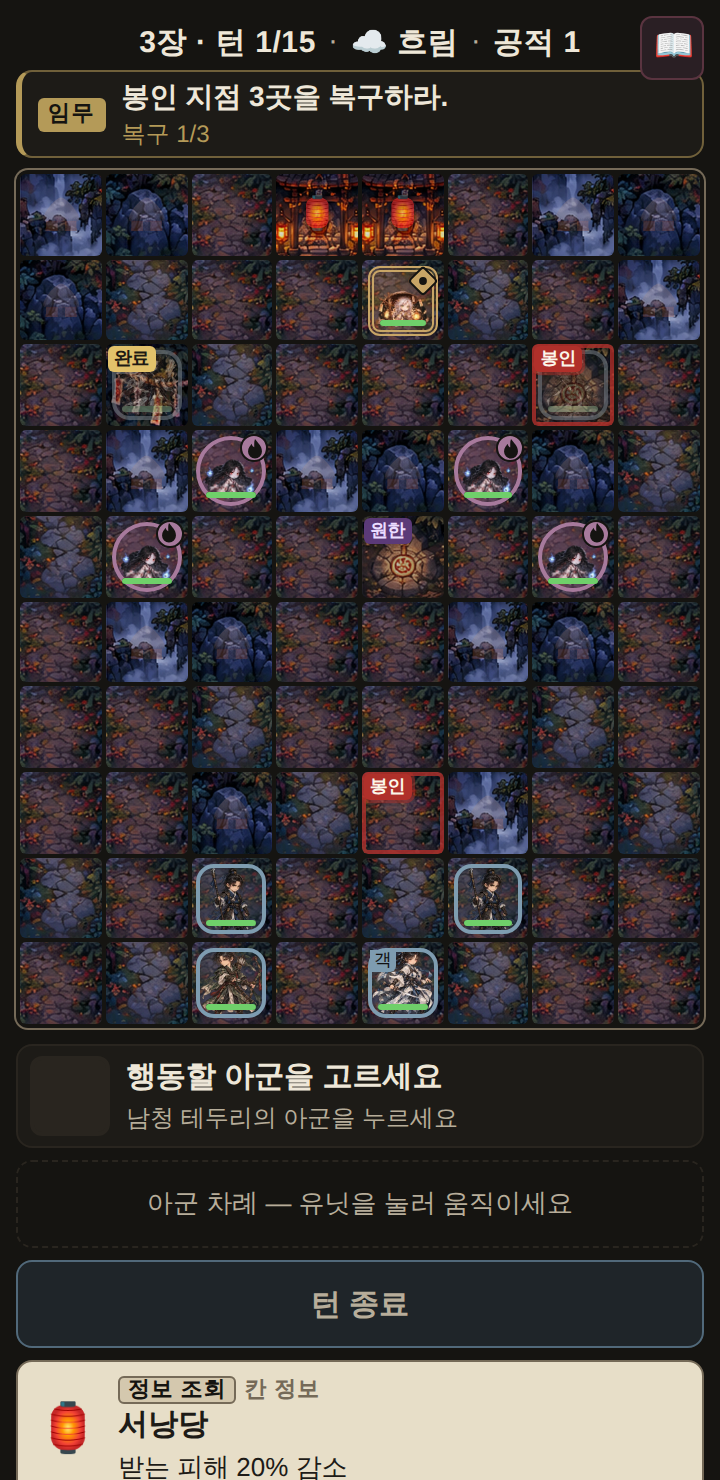
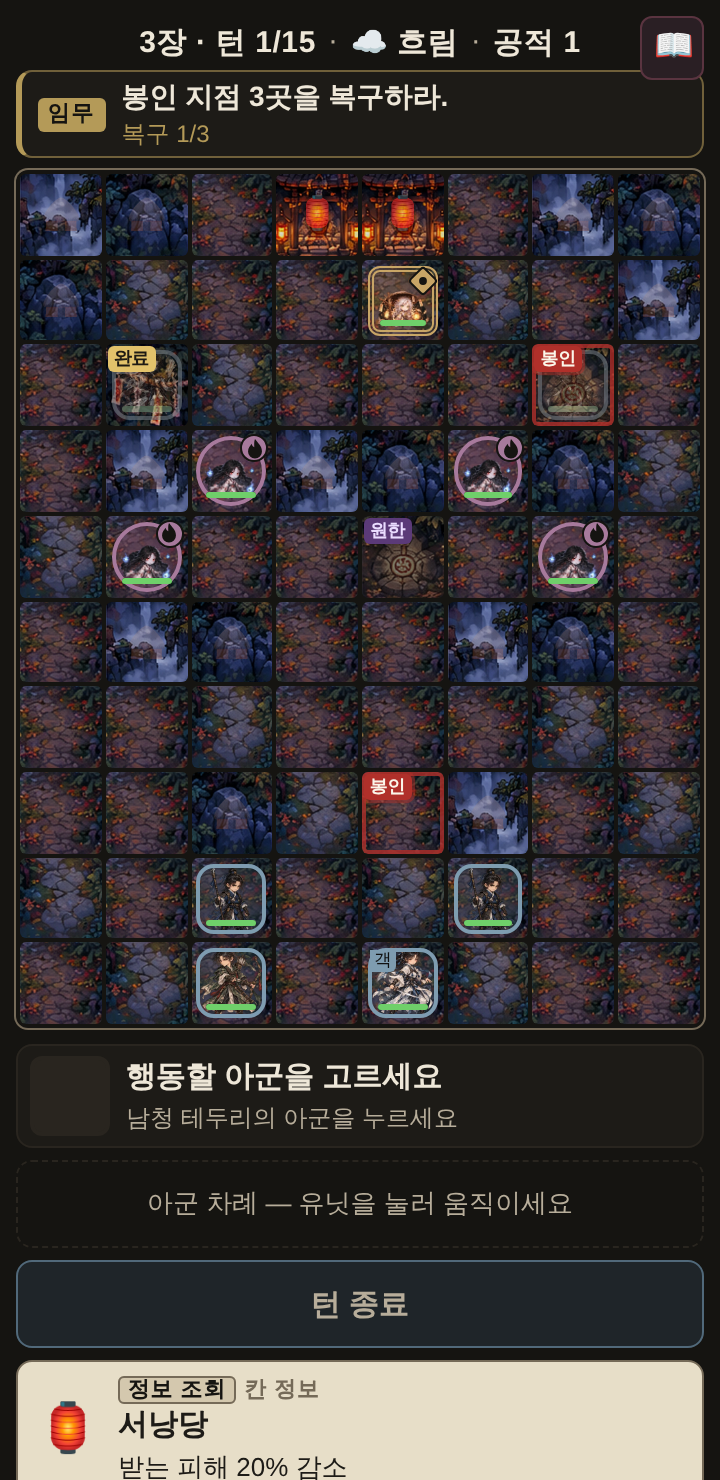
fix: [ENV-PHASE-C] 돌무덤 가운데 빛 누름 - 돌무덤 칸만 가운데 주황 문양·빛을 약 28% 어둡게·30% 채도 낮춤(env-trace-dim, 칸 한정 CSS 층), 그림 파일·돌탑·금줄·서낭당·다른 칸 변경 없음, 돋보기 표식 유지, 캡처 갱신 (규칙 변경 없음)
Claude-Session: https://claude.ai/code/session_01EmF9GJCvFbzTipZNHHLaCs

diff --git a/joseon-exorcist/index.html b/joseon-exorcist/index.html
@@ -96,6 +96,11 @@
   .cell.env-ch1.t-shrine .mark,
   .cell.env-ch1.t-spring .mark,
   .cell.env-ch3.t-shrine .mark { opacity: .72; text-shadow: 0 1px 2px rgba(0, 0, 0, .9), 0 0 3px rgba(0, 0, 0, .65); }
+  /* ENV-PHASE-C 검수: 3장 돌무덤 칸만 가운데 주황 문양이 "이미 켜진 제단"처럼 보여 빛을 누른다.
+     그림 파일은 돌탑과 같이 쓰므로 파일은 그대로 두고, 이 칸 배경 가운데만 어둡게·채도 낮게 (표식·유닛·강조는 그 위) */
+  .cell.env-trace-dim::before { content: ''; position: absolute; inset: 0; border-radius: inherit; pointer-events: none; z-index: 0;
+    -webkit-backdrop-filter: brightness(.7) saturate(.6); backdrop-filter: brightness(.7) saturate(.6);
+    -webkit-mask: radial-gradient(circle at 50% 55%, #000 0 40%, transparent 64%); mask: radial-gradient(circle at 50% 55%, #000 0 40%, transparent 64%); }
   .t-escape { background: var(--escape); box-shadow: inset 0 0 0 1px #3f6b48; } /* 2장 탈출로(숲길): 예전 그대로 */
   /* 5장 성문: 등장 전에는 조용한 먹색 + 표찰, 운반자가 향하는 성문만 주홍 테두리 */
   .t-escape.gate { background: var(--gate); box-shadow: inset 0 0 0 1px rgba(117, 106, 88, .75); }
@@ -4207,9 +4212,12 @@ var Core = (function () {
 
   // ENV-PHASE-C: 3장 조사 지점 칸만 배경을 흔적 그림으로 바꾼다 (지점 데이터·표식은 그대로, 그림만).
   // 서낭목은 봉인 단계에서야 뜻이 드러나므로 일반 고갯길 그대로 둔다 (화면이 이야기보다 먼저 말하지 않게)
-  function ch3PointEnv(r, c) {
+  function ch3PointAt(r, c) {
     if (chapterId !== 'ch3' || !state.points) return null;
-    var p = state.points.filter(function (pt) { return pt.r === r && pt.c === c; })[0];
+    return state.points.filter(function (pt) { return pt.r === r && pt.c === c; })[0] || null;
+  }
+  function ch3PointEnv(r, c) {
+    var p = ch3PointAt(r, c);
     if (!p) return null;
     if (p.id === 'geumjul') return 'assets/environment/ch3/env_point_geumjul.webp';
     if (p.id === 'doltap' || p.id === 'dolmudeom') return 'assets/environment/ch3/env_point_stone.webp';
@@ -4231,6 +4239,7 @@ var Core = (function () {
         var cell = el('div', 'cell ' + TERRAIN_CLASS[t]);
         var env = withEnv && envArtForCell(chapterId, t, r, c);
         if (env) env = ch3PointEnv(r, c) || env;
+        if (env && (ch3PointAt(r, c) || {}).id === 'dolmudeom') cell.className += ' env-trace-dim'; // 돌무덤: 가운데 빛만 누름 (위 CSS)
         if (env) {
           cell.className += ' env-' + chapterId;
           cell.style.backgroundImage = 'url(' + env + ')';

diff --git a/joseon-exorcist/QA-ENV-PHASE-C.md b/joseon-exorcist/QA-ENV-PHASE-C.md
@@ -50,6 +50,15 @@
 | 유닛 크기 | 작업 전과 같음 (자동 판정) |
 
 ## 발견
-- **DESIGN**: 돌탑·돌무덤 흔적 그림의 가운데 문양이 따뜻한 빛으로 주변보다 밝다 (가운데 밝기 74). 봉인 복구 뒤에도 같은 그림이라 "완료" 표식 아래에서 빛나는 제단처럼 보일 수 있다 — 기획 판단
+- ~~**DESIGN**: 돌탑·돌무덤 흔적 그림의 가운데 문양이 따뜻한 빛으로 주변보다 밝다~~ → 기획자 검수로 돌무덤만 가운데 빛을 누름 (아래 최종 비주얼 수정). 원문: (가운데 밝기 74). 봉인 복구 뒤에도 같은 그림이라 "완료" 표식 아래에서 빛나는 제단처럼 보일 수 있다 — 기획 판단
 - **DESIGN**: 금줄 흔적의 붉은 부적이 3장 판에서 가장 눈에 띄는 색이다. 돋보기가 먼저 읽히지만 금줄 칸이 정답처럼 보이는지는 폰에서 볼 것
 - 기존 BUG (고치지 않음): 첫 화면에서 1장 유닛 토큰 9개를 불러옴 (환경 그림은 부르지 않음)
+
+## 최종 비주얼 수정 — 돌무덤 가운데 빛 (2026-09-28, 기획자 검수 조건부 PASS 반영)
+- 지적: `04-clue-dolmudeom` 의 돌무덤 가운데 주황 문양이 조사 흔적이 아니라 이미 켜진 제단·봉인처럼 보인다
+- 돌탑과 돌무덤이 **같은 그림 파일**(`env_point_stone.webp`)을 써서 파일을 고치면 돌탑도 바뀐다 → 파일은 그대로 두고 **돌무덤 칸에만** 배경 가운데를 누르는 층을 얹음
+  - `ch3PointAt()` 로 돌무덤 칸을 찾아 `env-trace-dim` 클래스 → `::before` 가 칸 배경 가운데(원형 마스크)만 `brightness(.7) saturate(.6)`
+  - 층 0 — 조사/원한 표식(층 2)·유닛(층 1)·이동/공격 강조 아래. 돋보기 표식 그대로
+- 측정 (실제 판, 칸 가운데 영역, 작업 전 `061403c` 대비): 돌무덤 **밝기 −28% · 채도 −30%** (주황 픽셀 −64%) · 돌탑 **밝기·주황 그대로** (대조)
+- 확인: `node --test` 343 · 3장 환경 **PASS 33** (새 확인: 누름은 돌무덤에만 · 층 0) · 1장 환경 회귀(저장소) · 나머지 1~5장 회귀 FAIL 0 · core 차이 없음
+- 캡처 새로 찍음: `04-clue-dolmudeom` · `09-seal-phase` 포함 01~16 (돌무덤 칸이 보이는 화면이 많아 같은 실행으로 모두 갱신) · `18-dolmudeom-dimmed` (전후 측정 화면)

diff --git a/joseon-exorcist/PROGRESS.md b/joseon-exorcist/PROGRESS.md
@@ -278,6 +278,7 @@
   - 확인: 343 통과 / 3장 환경 32 PASS (작업 전 `3bbefec` 대비 맵·80칸·지점·목표 수치·원귀 respawn·서낭신·판·유닛 크기 동일 · 같은 날씨 두 턴 AI 동일 · 표식 모양 동일·가려지지 않음) / 이음새 판정 7개 통과 / 회귀 전부 FAIL 0 — QA-ENV-PHASE-C.md
   - 1장 환경 회귀 스크립트 현행화 (3장 환경·3장 🏮 예외)
   - DESIGN: 돌 흔적 가운데 문양이 밝게 빛남 · 금줄 부적이 판에서 가장 눈에 띔 (폰에서 판단)
+  - 최종 비주얼 수정 (기획자 조건부 PASS): 돌무덤 칸만 가운데 주황빛을 누름 — 그림 파일(돌탑과 공용)은 그대로, `env-trace-dim` 층으로 밝기 −28% · 채도 −30%. 돌탑·금줄·다른 칸 그대로. 343 · 3장 33 PASS · 1~5장 회귀 FAIL 0
   - **push 안 함 · 미배포**. 커밋 1개
 
 ## 다음에 진행할 작업
